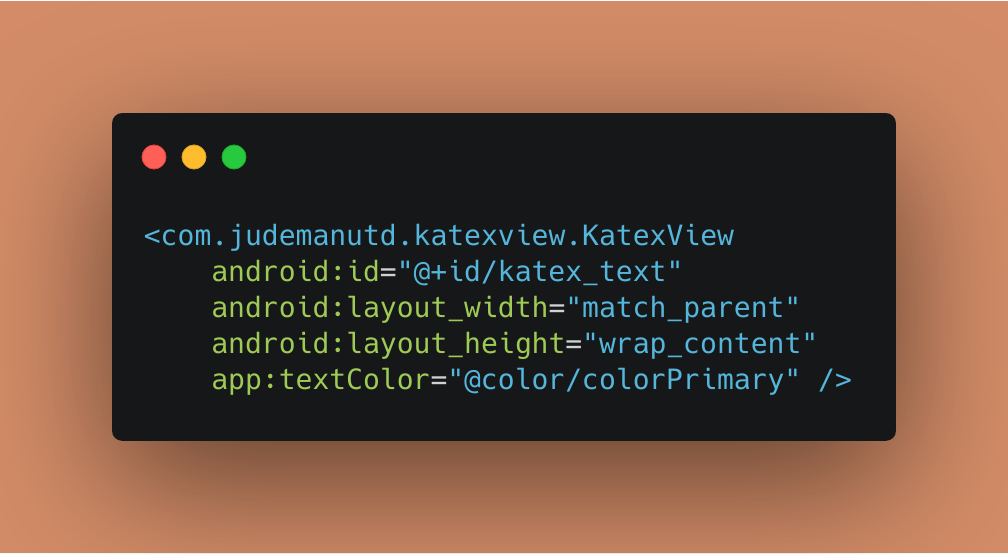
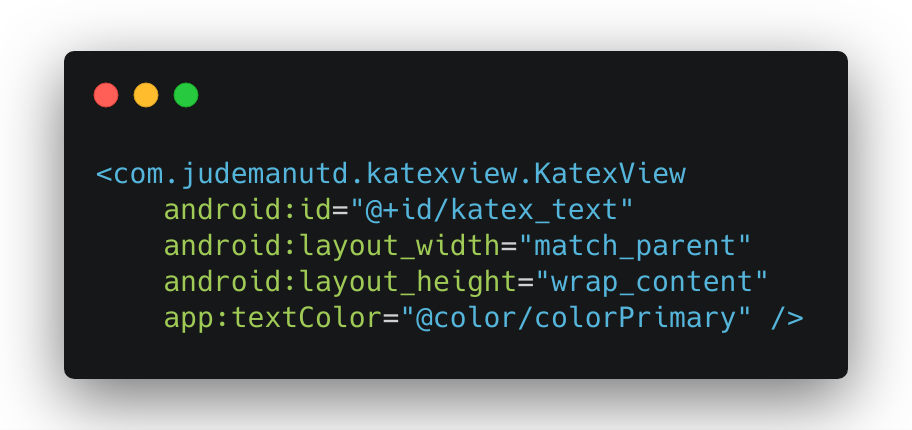
* updated image

diff --git a/README.md b/README.md
@@ -34,11 +34,11 @@ __________
 Include the following code in your xml layout
 
 ```xml
-    <com.judemanutd.katexview.KatexView
-        android:id="@+id/katex_text"
-        android:layout_width="match_parent"
-        android:layout_height="wrap_content"
-        app:textColor="@color/colorPrimary" />
+<com.judemanutd.katexview.KatexView
+    android:id="@+id/katex_text"
+    android:layout_width="match_parent"
+    android:layout_height="wrap_content"
+    app:textColor="@color/colorPrimary" />
 ```
 
 You can then supply the text to be rendered in kotlin or java
@@ -50,6 +50,7 @@ katex_text.setText(text)
 
 ```
 
+<img src="https://raw.githubusercontent.com/judemanutd/KatexView/master/example.png" />
 
 ## Supported Attributes
 
